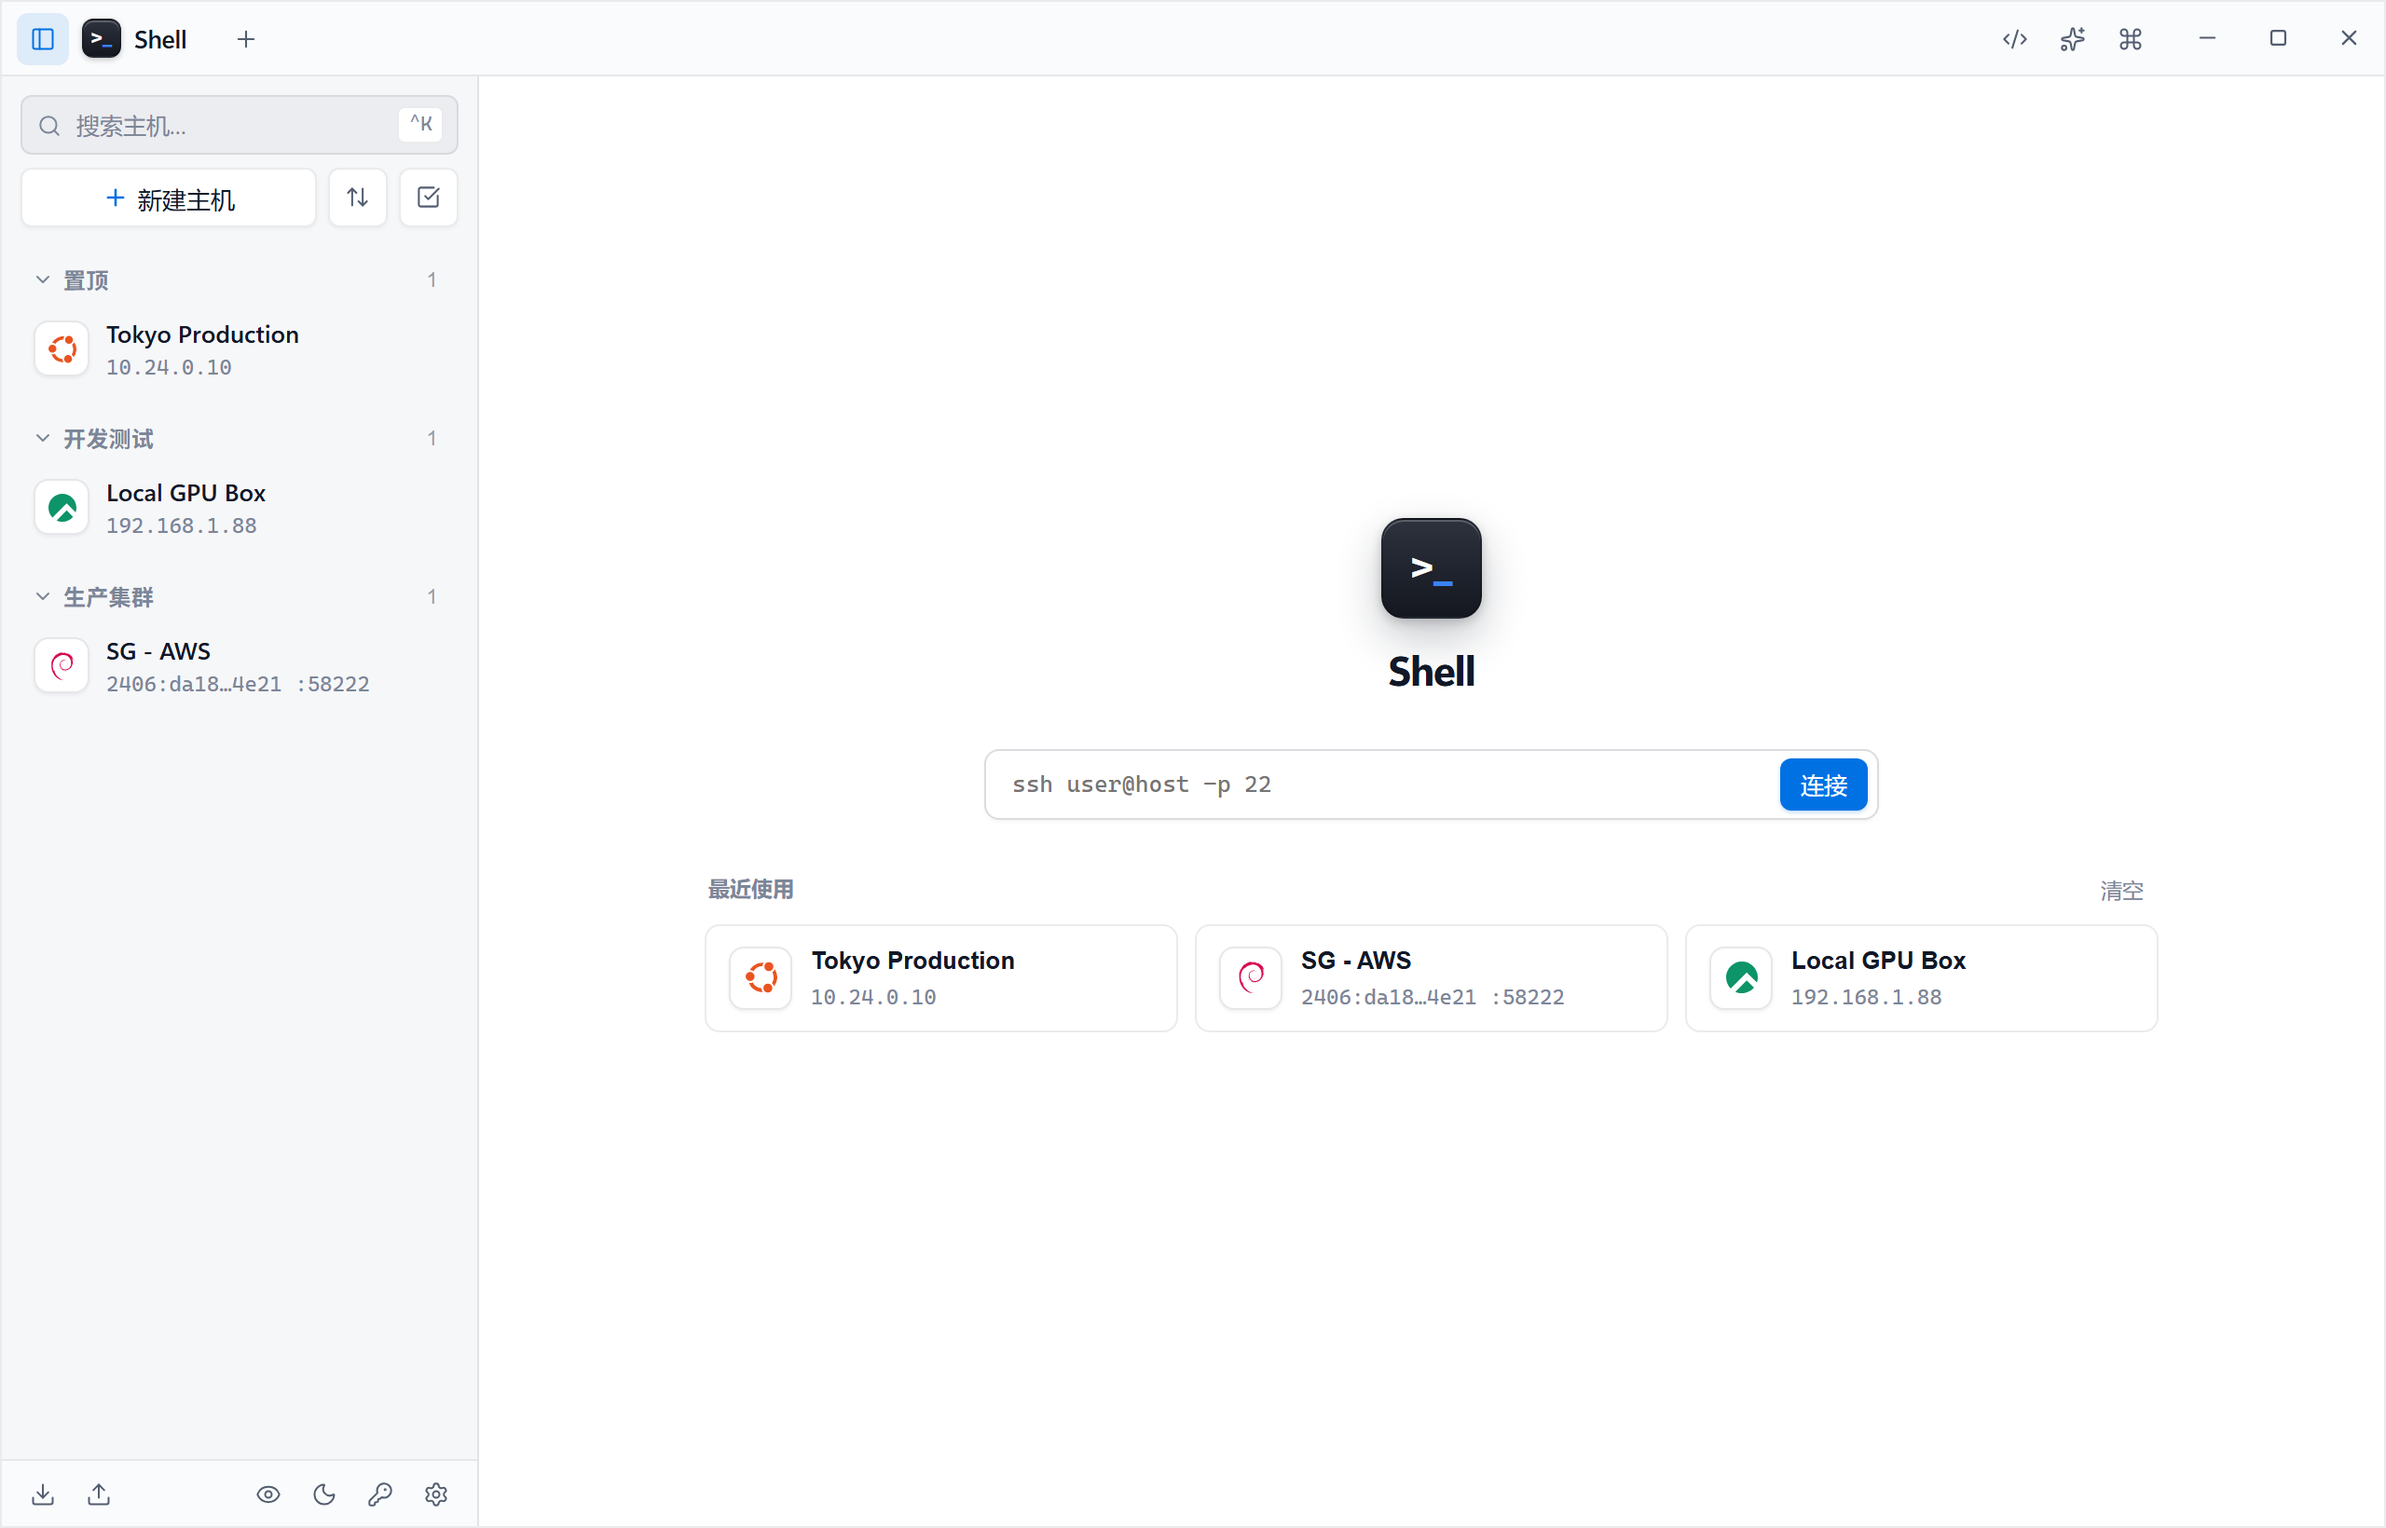
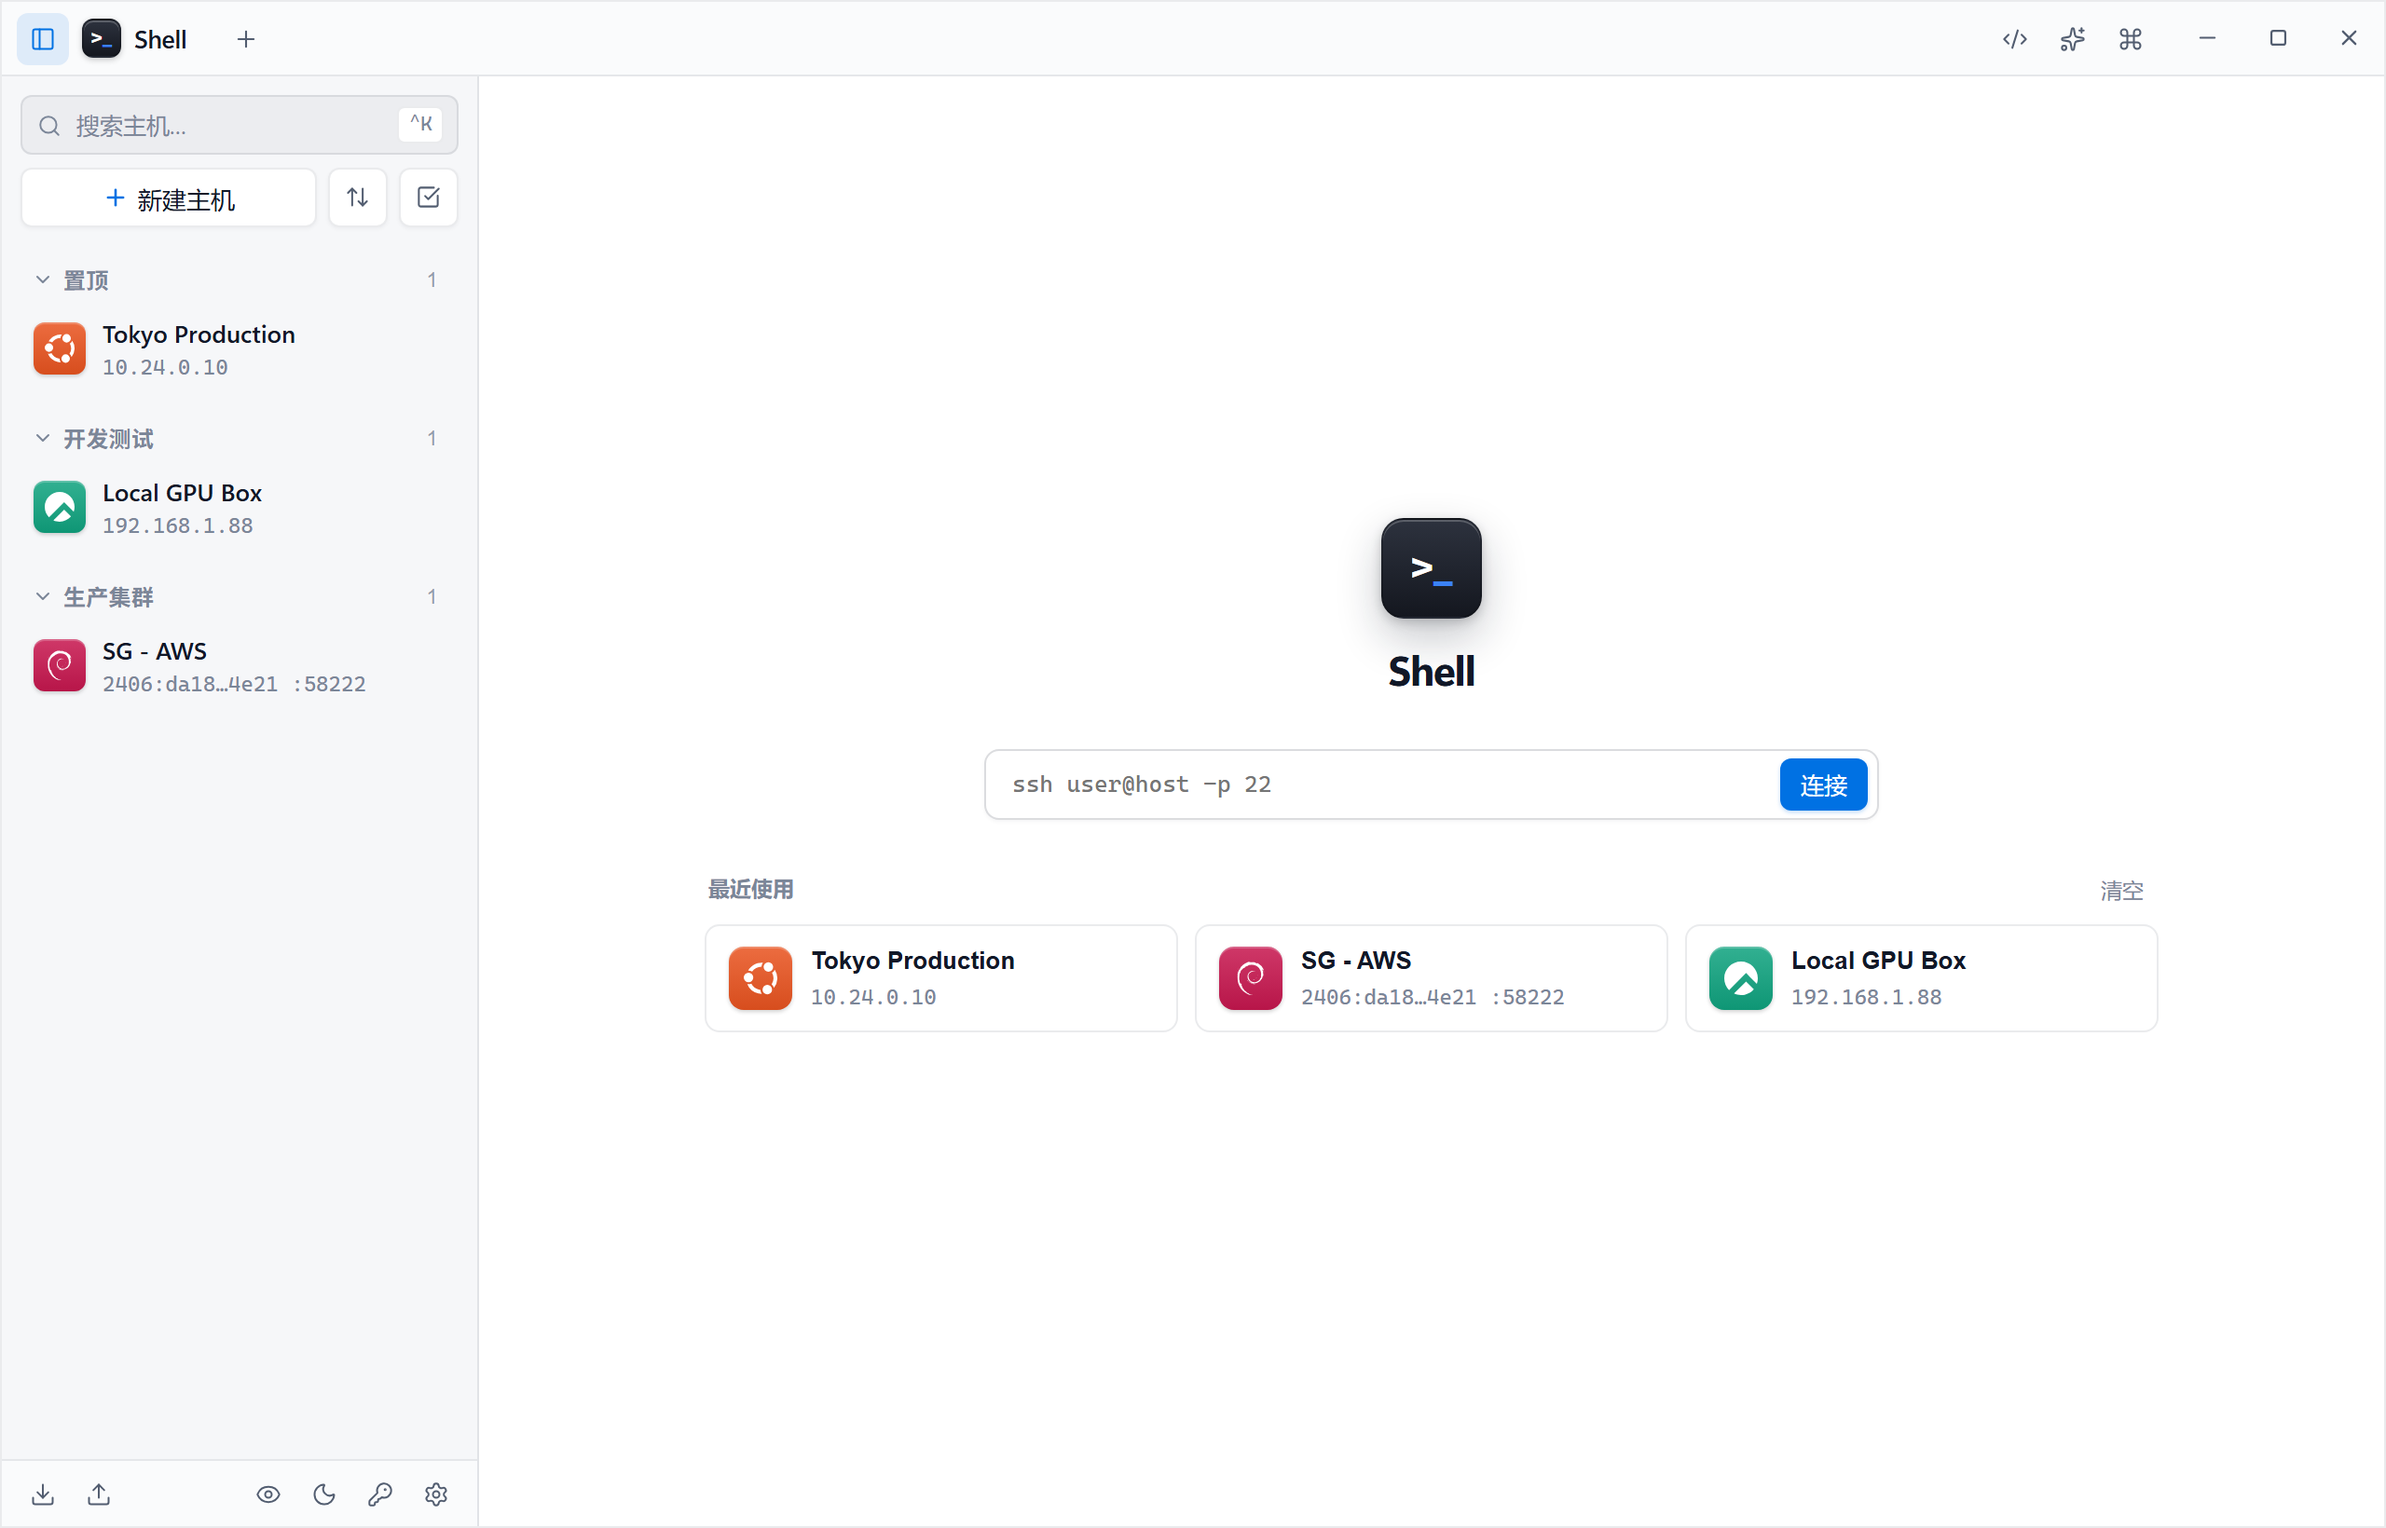
chore(release): 发布 v1.5.6
- 升级应用版本元数据至 1.5.6 并补充中文变更日志
- 刷新文档中浅色工作台、深色终端与 SFTP 展示截图

diff --git a/CHANGELOG.md b/CHANGELOG.md
@@ -2,6 +2,16 @@
 
 本项目的版本变更遵循 [语义化版本 2.0.0](https://semver.org/lang/zh-CN/) 规范。
 
+## [1.5.6] - 2026-11-28
+
+### 深色视觉与材质层次
+- **高通透纯中性深色外观重校**：将深色外观全面校准为纯中性暗色调（终端、远端编辑器与应用画布统一为 `#121316`，顶栏与侧栏分别为 `#16171B` 与 `#17181C`），彻底消除深色界面灰雾感；同步提升默认深色终端的高清晰度 ANSI 色阶与中性光标对比度，并为右键菜单、下拉选择器、性能浮层、轻提示与悬浮提示加入柔和毛玻璃层次。
+- **纯色饱满主机图标砖**：主机图标升级为纯色饱满圆角图标砖搭配纯白系统徽标，去除半透明底色，在深浅主题与悬停状态下均保持清晰锐利。
+
+### 标签栏与批量管理体验
+- **完整标签名称与克制极简高亮**：标签页默认完整展示服务器名称不再过早截断，移除顶部标签与侧栏及会话切换列表中的蓝色高亮线条，回归克制极简的视觉风格。
+- **批量主机管理平滑过渡动效**：优化进入与退出批量主机管理模式时的过渡动效，列表复选框平滑滑入推开并与表头全选框精确对齐，顶栏与底栏高度过渡柔和自然。
+
 ## [1.5.5] - 2026-11-28
 
 ### 终端配色与连接体验
